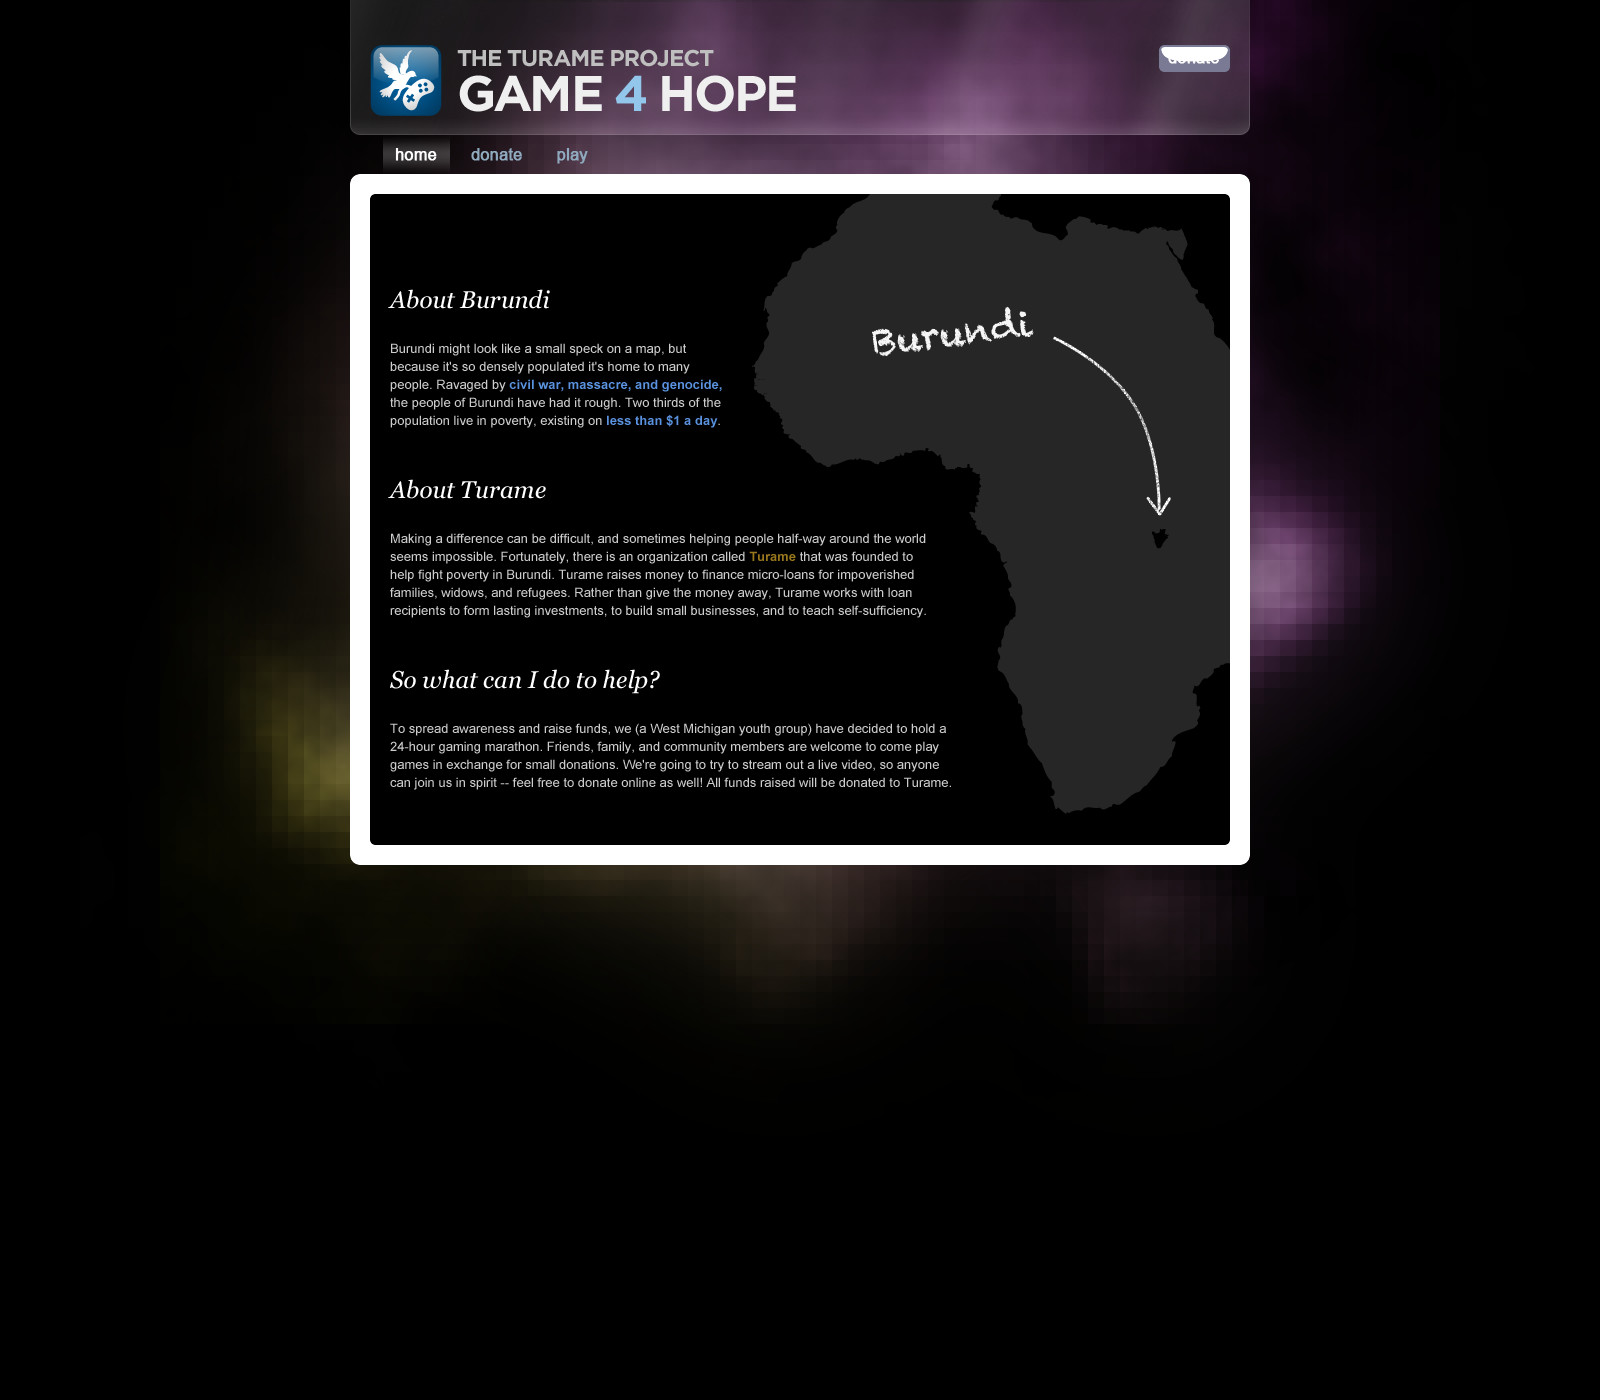
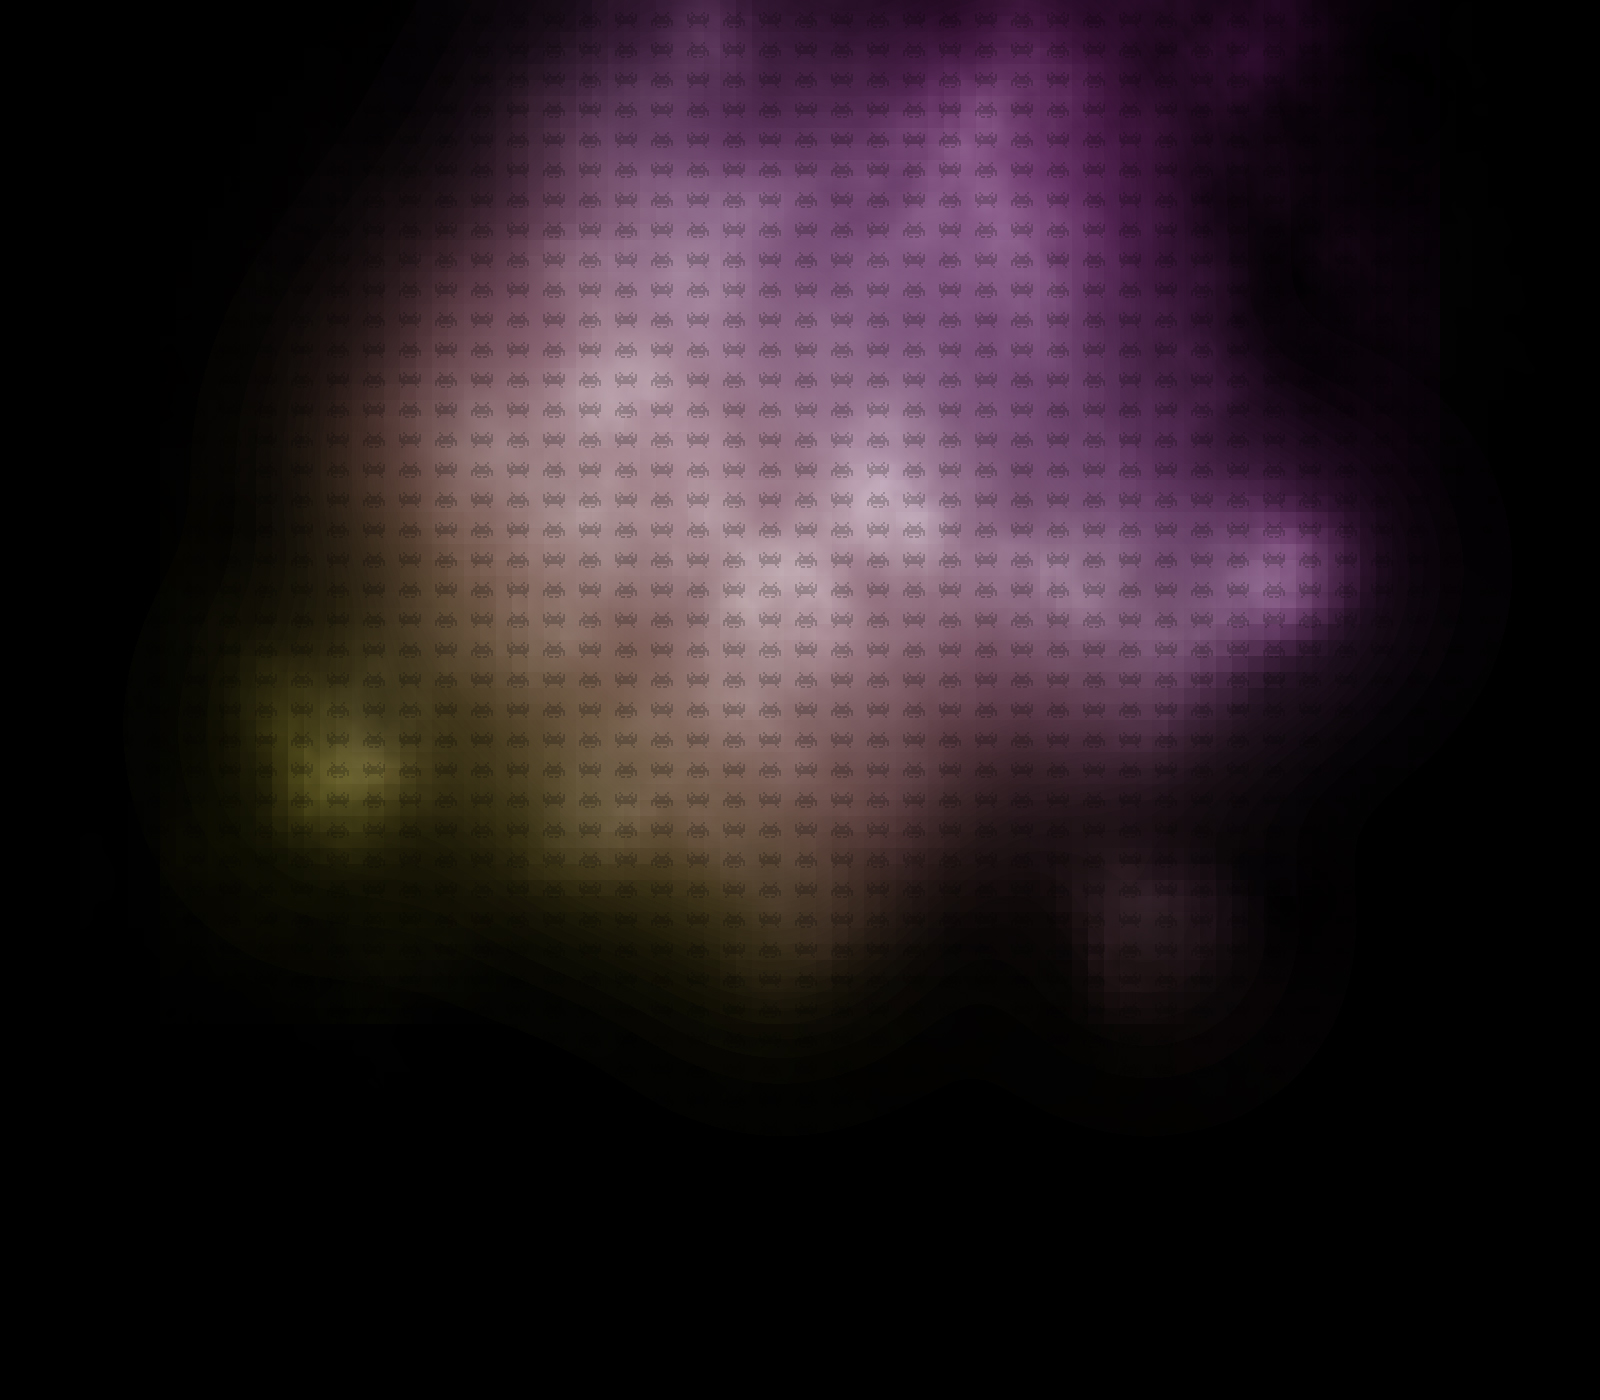
added pngs and jpegs added css to microcite 2

Changed region(s): [[0.2188, 0.0, 0.7812, 0.645]]

diff --git a/Microsite2/microsite2.css b/Microsite2/microsite2.css
@@ -1,0 +1,77 @@
+
+.banner{
+    
+  position: absolute;
+  width:  901px;
+    height:  138px;
+  left:15%;
+    top: -10px;
+    background: rgba(255,255,255,.2); 
+    background-size: 100px;
+    background-clip: padding-box;          /* Background stops at border */
+    border: 40px solid rgba(255,255,255,.2);
+    border-radius: 30px;
+    box-shadow:
+       0    0   1px  rgba(255,255,255,.8), /* Bright outer highlight */
+       0    0   30px  rgba(0,0,0,.8),       /* Outer shadow */
+    
+    padding: 10px;
+    color: #ffffff;
+}
+.info{
+  
+    position: absolute;
+ 
+    top: 40%;
+ left: 15%;
+  width: 900px;
+    height: 683px;
+    background: #000000;
+    background-clip: padding-box;          /* Background stops at border */
+    border: 40px solid rgba(255,255,255,.2);
+    border-radius: 30px;
+    box-shadow:
+       0    0   1px  rgba(255,255,255,.8), /* Bright outer highlight */
+       0    0   30px  rgba(0,0,0,.8),       /* Outer shadow */
+       10px  10px 0    rgba(0,0,0,.8) inset, /* Inner shadow (top + left) */
+      -10px -10px 0    rgba(0,0,0,.8) inset; /* Inner shadow (bottom + right) */
+    padding: 10px;
+    color: #ffffff;
+}
+.info p{
+     
+}
+
+body {
+     background-image: url("imgs/g4h.jpg");
+   background-repeat: no-repeat;
+    width: 1398px;
+    height: 1600px;
+    
+   
+ background-color: #000;
+}
+.info img{
+    position: absolute;
+    display: block;
+}
+
+.g4hbanner{
+   
+  position: absolute;
+  display: block;
+  top: 80px;
+  right: 490px;
+    
+}
+.donatebanner{
+    position: absolute;
+    display: block;
+    top: 25px;
+    left: 830px;
+}
+.info p{
+width: 336px;
+    height: 92px;
+    
+}

diff --git a/Microsite2/index.html b/Microsite2/index.html
@@ -1,13 +1,12 @@
-<!doctype html>
-<html>
- <head>
-    <meta charset"UTF-8">
-<title>Generic company</title>
-     
-    </head>
+<!DOCTYPE html>
+<html lang="en">
+<head>
+    <meta charset="UTF-8">
+    <link href="microsite2.css" rel="stylesheet">
+    <title>microsite 2</title>
+</head>
 <body>
-  <img src="imgs/g4h.jpg" width="100%">
-    
-    </body>
-
+   <div class="banner"><img src="imgs/banner.png" class="g4hbanner" > <a href="#"><img src="imgs/donate.png" class="donatebanner" href="#" > </a></div>
+    <div class="info"><h2>sdsdsdsdsd</h3><p id="homepage"> Burundi might look like a small speck on a map, but because it's so densely populated it's home to many people. Ravaged by civil war, massacre, and genocide, the people of Burundi have had it rough. Two thirds of the population live in poverty, existing on less than $1 a day</p><p>sdsdasaaaaaadsssssssdsa</p><img src="imgs/map.png"> </div>
+</body>
 </html>

diff --git a/Microsite1/microsite1.css b/Microsite1/microsite1.css
@@ -40,6 +40,8 @@ header nav ul li a:hover{
 
 .container{
 
+    
+    
     background: #000000;
     background-clip: padding-box;          /* Background stops at border */
     border: 40px solid rgba(255,255,255,.2);
@@ -50,4 +52,5 @@ header nav ul li a:hover{
        10px  10px 0    rgba(0,0,0,.8) inset, /* Inner shadow (top + left) */
       -10px -10px 0    rgba(0,0,0,.8) inset; /* Inner shadow (bottom + right) */
     padding: 10px;
+    color: #ffffff;
 }

diff --git a/Microsite1/microsite1.html b/Microsite1/microsite1.html
@@ -3,7 +3,7 @@
  <head>
     <meta charset"UTF-8">
 <title>Generic company</title>
-     <link href="main.css" rel="stylesheet">
+     <link href="microsite1.css" rel="stylesheet">
     </head>
 <body>
     <header>
